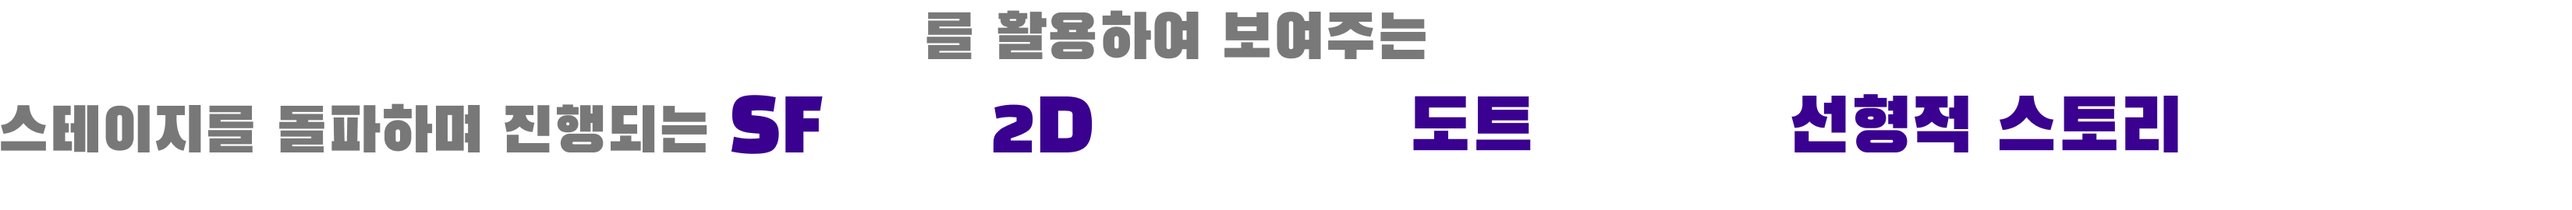
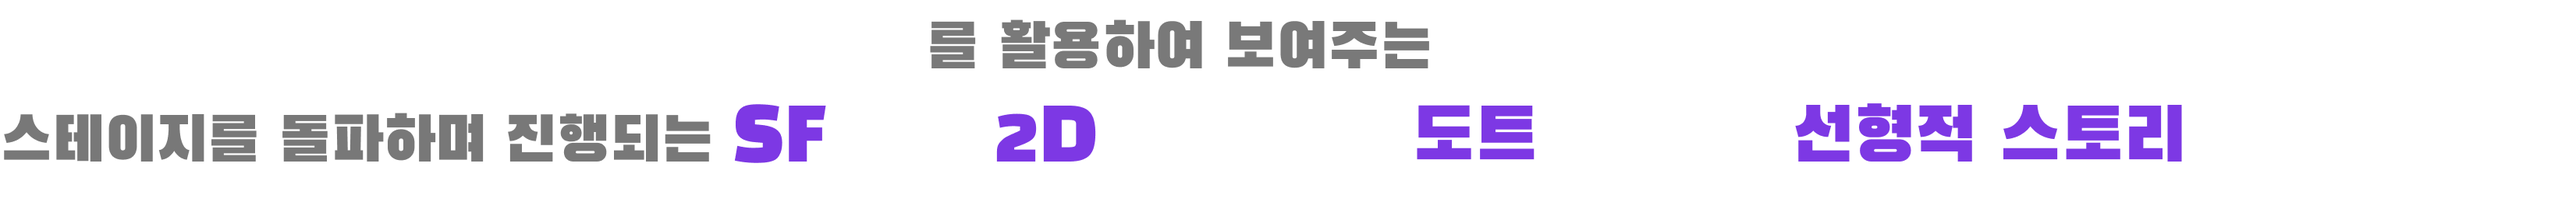
1

diff --git a/style_section3.css b/style_section3.css
@@ -1,24 +1,18 @@
-@import url('https://fonts.googleapis.com/css2?family=Archivo+Black&family=Black+Han+Sans&display=swap');
-@import url("https://cdn.jsdelivr.net/npm/galmuri/dist/galmuri.css");
-#section1 {
-    font-family: "Galmuri11", sans-serif;
-    font-weight: bold;
-    font-display: swap;
-    font-size: 7.5vw;
-    background-image: url(img/img_5.jpg);
+#section3 {
+    position: relative;
+    background-image: url(img/img_2.jpg);
+    font-size: 3vw;
     background-size: 1920px 1080px; /* 배경 이미지 크기 설정 */
     background-repeat: no-repeat; /* prevents the image from repeating */
     background-position: center; /* centers the image */
 }
 
-#pjlily {
+#s2_1 {
     position: absolute; /* 또는 fixed */
-    font-family: "Galmuri11", sans-serif;
-    font-weight: bold;
-    top: 50%; /* 세로 중앙 */
+    top: 15%; /* 세로 중앙 */
     left: 50%; /* 가로 중앙 */
     transform: translate(-50%, -50%); /* 요소의 크기를 고려하여 중앙으로 이동 */
     grid-column: 1; /* 그리드 열 설정 (필요에 따라 조정) */
     grid-row: 1; /* 그리드 행 설정 (필요에 따라 조정) */
-   color: #7D38E4;
+    width: 25%;
 }

diff --git a/index.html b/index.html
@@ -8,6 +8,7 @@
     <link rel="stylesheet" href="style_header.css">
     <link rel="stylesheet" href="style_section1.css">
     <link rel="stylesheet" href="style_section2.css">
+    <link rel="stylesheet" href="style_section3.css">
     <script src="https://cdnjs.cloudflare.com/ajax/libs/gsap/3.12.5/gsap.min.js"></script>
     <script src="https://cdnjs.cloudflare.com/ajax/libs/gsap/3.12.5/TextPlugin.min.js"></script>
     <script src="https://cdnjs.cloudflare.com/ajax/libs/gsap/3.12.5/ScrollTrigger.min.js"></script>
@@ -38,10 +39,9 @@
     <img id="s1_1" src="img/게임개요.png">
     <img id="s1_2" src="img/특징 및 차별점.png">
     <img id="s1_3" src="img/주요 플랫폼.png">
-            
     </section>
     <section class="section" id="section3">
-        <h1 id="worldview">세계관</h1>
+        <img id="s2_1" src="img/세계관.png">
     </section>
 </body>
 </html>

diff --git a/style.css b/style.css
@@ -41,14 +41,4 @@ h1 {
     background-color: #f0f0f0; /* 배경색 */
 }
 
-#section3 {
-    font-family: "Archivo Black", serif;
-    font-weight: 400;
-    font-style: normal;
-    background-image: url(img/img_2.jpg);
-    font-size: 3vw;
-    background-size: 1920px 1080px; /* 배경 이미지 크기 설정 */
-    background-repeat: no-repeat; /* prevents the image from repeating */
-    background-position: center; /* centers the image */
-}
 

diff --git a/gsap_1.js b/gsap_1.js
@@ -64,5 +64,16 @@ const lenis = new Lenis({
             opacity: 0,
             duration: 1,
         });
+        gsap.from("#s2_1", {
+            scrollTrigger: {
+                trigger: "#s2_1",
+                start: "top 80%",
+                end: "top 30%",
+                toggleActions: "play none none reverse",
+            },
+            opacity: 0,
+            scale: 0.5,
+            duration: 1,
+        });
     });
     

diff --git a/style_section2.css b/style_section2.css
@@ -1,3 +1,5 @@
+@import url('https://fonts.googleapis.com/css2?family=Archivo+Black&family=Black+Han+Sans&display=swap');
+@import url("https://cdn.jsdelivr.net/npm/galmuri/dist/galmuri.css");
 #section2 {
     position: relative;
     background-image: url(img/img_2.jpg);

diff --git a/style_header.css b/style_header.css
@@ -24,7 +24,7 @@
     font-display: swap;
     font-size: 10vw; /* 초기 글꼴 크기 */
     transition: font-size 0.3s ease; /* 부드러운 전환 효과 */
-    color: #3a0190;
+    color: #7D38E4;
 }
 
 #nav-container {
